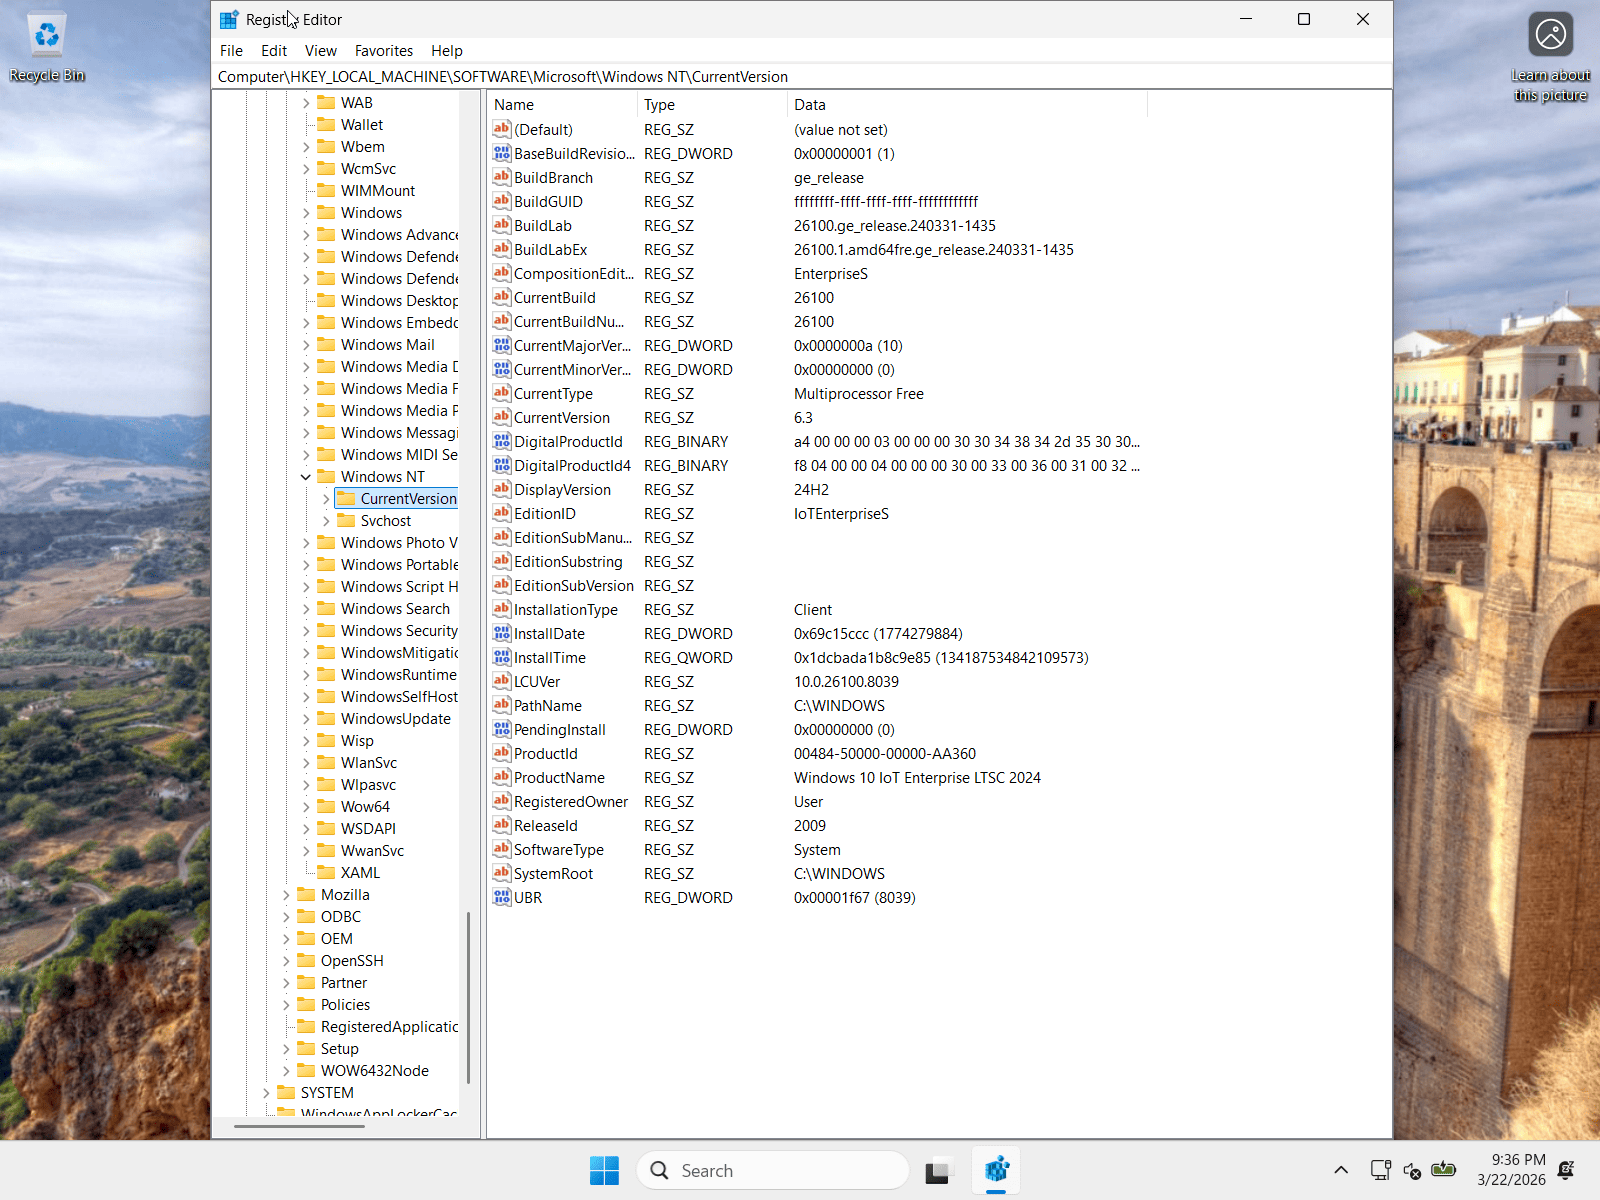
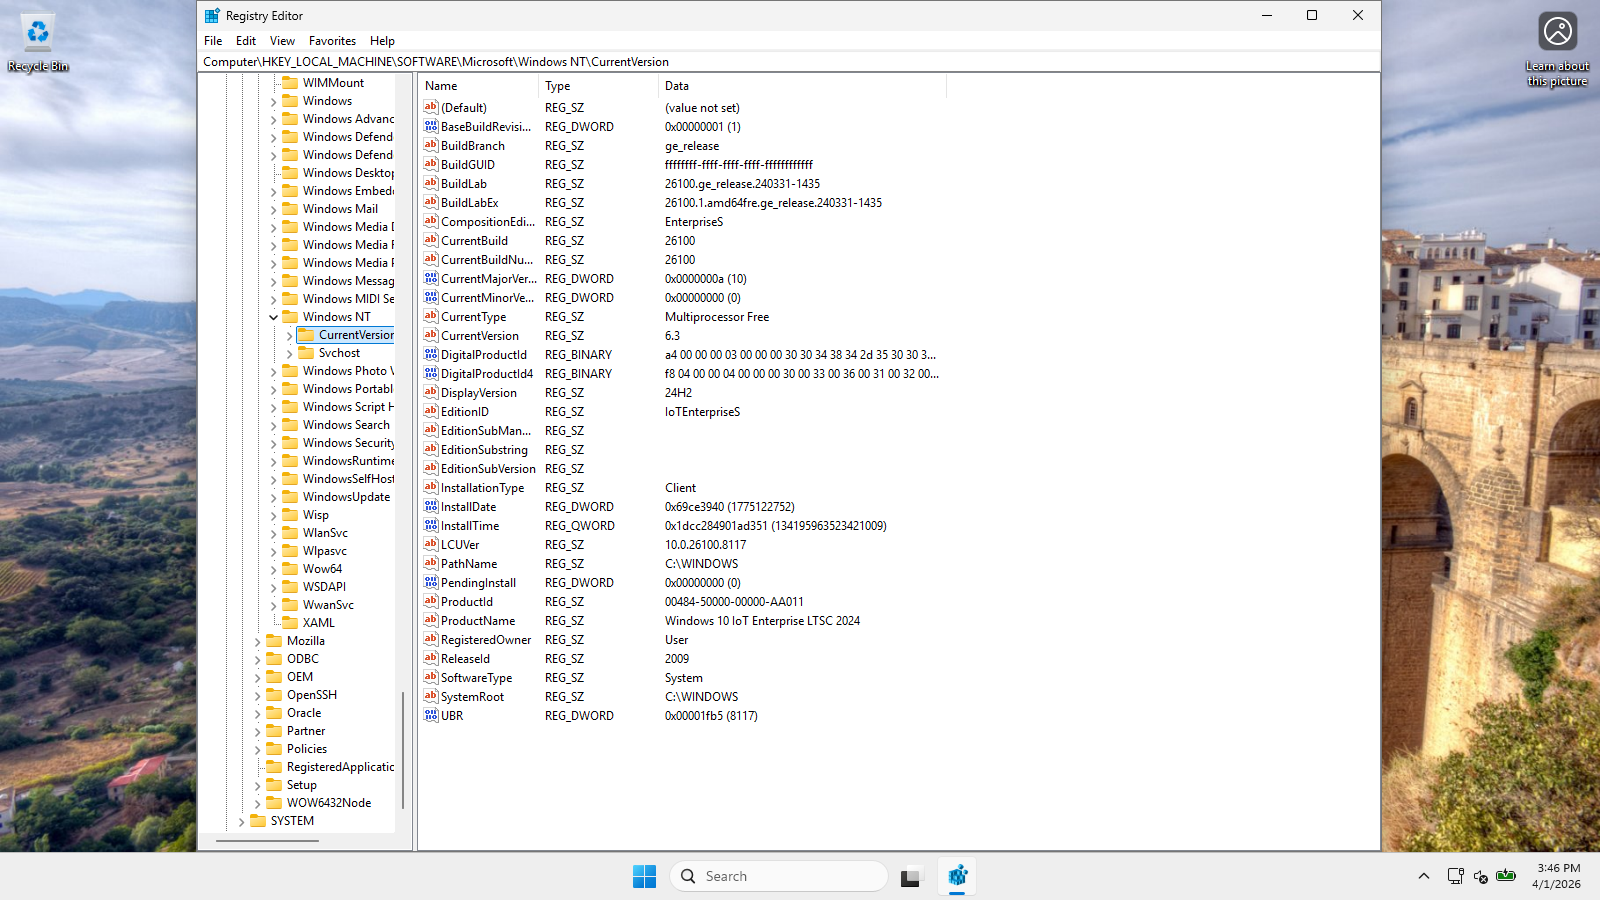
update

Changed region(s): [[0.0, 0.0, 1.0, 0.9956], [0.0, 0.2178, 0.0625, 0.2489], [0.0312, 0.1244, 0.0625, 0.1556]]

diff --git a/windows-11-en/index.html b/windows-11-en/index.html
@@ -53,7 +53,7 @@
             <div class="card-text"><a href="/" class="return-link"><span class="lang-en"><b>Return to Home</b></span><span class="lang-ru"><b>Вернуться на главную</b></span></a></div>
             <div class="card-text"><span class="lang-en">Language: English</span><span class="lang-ru">Язык: Английский</span></div>
             <div class="card-text"><span class="lang-en">Windows 11 IoT Enterprise LTSC (Long-Term Servicing Channel) is a lightweight version of Windows with long-term support, designed for stable performance on embedded devices and specialized systems. It excludes unnecessary apps, reducing system requirements and making it an ideal solution where reliability and minimal interference are critical.</span><span class="lang-ru">Windows 11 IoT Enterprise LTSC (Long-Term Servicing Channel) — это облегченная версия Windows с долгосрочной поддержкой, разработанная для стабильной работы на встраиваемых устройствах и специализированных системах. Она исключает ненужные приложения, снижая системные требования и делая ее идеальным решением там, где критически важны надежность и минимальное вмешательство.</span></div>
-            <div class="updated"><span class="lang-en"><b>TPM, Secure Boot, and OOBE checks are disabled,<br>Updated to 26100.8039 Preview (March 2026) by somov</b></span><span class="lang-ru"><b>Проверки TPM, Secure Boot и OOBE отключены,<br>Обновлено до 26100.8039 Предварительная версия (Март 2026) by somov</b></span></div>
+            <div class="updated"><span class="lang-en"><b>TPM, Secure Boot, and OOBE checks are disabled,<br>Updated to 26100.8117 Out-of-band (March 2026) by somov</b></span><span class="lang-ru"><b>Проверки TPM, Secure Boot и OOBE отключены,<br>Обновлено до 26100.8117 Вне диапазона (Март 2026) by somov</b></span></div>
             <div class="card-text"><span class="lang-en"><b>System Requirements:</b></span><span class="lang-ru"><b>Системные требования:</b></span></div>
             <div class="card-text">
               <ol class="marker-list">
@@ -66,13 +66,13 @@
             </div>
             <div class="card-text"><span class="lang-en"><b>Image checksums:</b></span><span class="lang-ru"><b>Контрольные суммы образа:</b></span></div>
             <div class="card-text">
-              <ol class="marker-list"><li><b>CRC32:</b> 6b2cd9fc</li>
-              <li><b>MD5:</b> 08d81428647d21c82f689e60d194fc3c</li>
-              <li><b>SHA-1:</b> 84d0d03466508e037527249ef8f8c6fbeab6f328</li>
+              <ol class="marker-list"><li><b>CRC32:</b> dcd4b22f</li>
+              <li><b>MD5:</b> 13b49557aedbb67dd264c3b3eef1c1e2</li>
+              <li><b>SHA-1:</b> dff73b08f3ad775431a58bd076b7406aac534ec2</li>
             </ol></div>
             <div class="button-container">
-            <a class="btn-windows" href="https://dl3.somov.org/en-us_windows_11_iot_enterprise_ltsc_2024_x64_26100.8039_by_somov.iso"><span class="lang-en">Download</span><span class="lang-ru">Скачать</span></a>
-            <a class="torrent-link" href="https://dl3.somov.org/en-us_windows_11_iot_enterprise_ltsc_2024_x64_26100.8039_by_somov.iso.torrent"><span class="lang-en">Download by torrent</span><span class="lang-ru">Скачать с помощью torrent</span></a>
+            <a class="btn-windows" href="https://dl3.somov.org/en-us_windows_11_iot_enterprise_ltsc_2024_x64_26100.8117_by_somov.iso"><span class="lang-en">Download</span><span class="lang-ru">Скачать</span></a>
+            <a class="torrent-link" href="https://dl3.somov.org/en-us_windows_11_iot_enterprise_ltsc_2024_x64_26100.8117_by_somov.iso.torrent"><span class="lang-en">Download by torrent</span><span class="lang-ru">Скачать с помощью torrent</span></a>
             </div>
   <div class="full-width-section">
     <div class="gallery">

diff --git a/windows-11-ru/index.html b/windows-11-ru/index.html
@@ -53,7 +53,7 @@
             <div class="card-text"><a href="/" class="return-link"><span class="lang-en"><b>Return to Home</b></span><span class="lang-ru"><b>На главную</b></span></a></div>
             <div class="card-text"><span class="lang-en">Language: Russian</span><span class="lang-ru">Язык: Русский</span></div>
             <div class="card-text"><span class="lang-en">Windows 11 IoT Enterprise LTSC (Long-Term Servicing Channel) is a lightweight version of Windows with long-term support, designed for stable performance on embedded devices and specialized systems. It excludes unnecessary apps, reducing system requirements and making it an ideal solution where reliability and minimal interference are critical.</span><span class="lang-ru">Windows 11 IoT Enterprise LTSC (Long-Term Servicing Channel) — это облегчённая версия Windows с долгосрочной поддержкой, разработанная для стабильной работы на встраиваемых устройствах и специализированных системах. Она лишена лишних приложений, что снижает системные требования и делает её идеальным решением, где важны надёжность и минимальное вмешательство.</span></div>
-            <div class="updated"><span class="lang-en"><b>TPM, Secure Boot, and OOBE checks are disabled,<br>Updated to 26100.8039 Preview (March 2026) by somov</b></span><span class="lang-ru"><b>Проверки TPM, Secure Boot и OOBE отключены,<br>Обновлено до 26100.8039 Предварительная версия (Март 2026) by somov</b></span></div>
+            <div class="updated"><span class="lang-en"><b>TPM, Secure Boot, and OOBE checks are disabled,<br>Updated to 26100.8117 Out-of-band (March 2026) by somov</b></span><span class="lang-ru"><b>Проверки TPM, Secure Boot и OOBE отключены,<br>Обновлено до 26100.8117 Вне диапазона (Март 2026) by somov</b></span></div>
             <div class="card-text"><span class="lang-en"><b>System Requirements:</b></span><span class="lang-ru"><b>Системные требования:</b></span></div>
             <div class="card-text">
               <ol class="marker-list">
@@ -66,13 +66,13 @@
             </div>
             <div class="card-text"><span class="lang-en"><b>Image checksums:</b></span><span class="lang-ru"><b>Контрольные суммы:</b></span></div>
             <div class="card-text">
-              <ol class="marker-list"><li><b>CRC32:</b> af050dd7</li>
-              <li><b>MD5:</b> f4b55223c926c098f49e27e99fbc5f6a</li>
-              <li><b>SHA-1:</b> 033c09a71e03d0df474901dcf855a450bc2d6e32</li>
+              <ol class="marker-list"><li><b>CRC32:</b> 4c83e8ba</li>
+              <li><b>MD5:</b> a2dfa4bef147178055615f9ae9174140</li>
+              <li><b>SHA-1:</b> f31013625a02faf80b040d84f1423f0bd6d6990d</li>
             </ol></div>
             <div class="button-container">
-            <a class="btn-windows" href="https://dl3.somov.org/ru-ru_windows_11_iot_enterprise_ltsc_2024_x64_26100.8039_by_somov.iso"><span class="lang-en">Download</span><span class="lang-ru">Скачать</span></a>
-            <a class="torrent-link" href="https://dl3.somov.org/ru-ru_windows_11_iot_enterprise_ltsc_2024_x64_26100.8039_by_somov.iso.torrent"><span class="lang-en">Download by torrent</span><span class="lang-ru">Скачать с помощью torrent</span></a>
+            <a class="btn-windows" href="https://dl3.somov.org/ru-ru_windows_11_iot_enterprise_ltsc_2024_x64_26100.8117_by_somov.iso"><span class="lang-en">Download</span><span class="lang-ru">Скачать</span></a>
+            <a class="torrent-link" href="https://dl3.somov.org/ru-ru_windows_11_iot_enterprise_ltsc_2024_x64_26100.8117_by_somov.iso.torrent"><span class="lang-en">Download by torrent</span><span class="lang-ru">Скачать с помощью torrent</span></a>
             </div>
   <div class="full-width-section">
     <div class="gallery">

diff --git a/index.html b/index.html
@@ -66,7 +66,7 @@
             </a>
             <div class="card-details">
               <span class="lang-en">Language: English<br></span><span class="lang-ru">Язык: Английский<br></span>
-              <span class="lang-en">Update: 26100.8039 Preview (March 2026)<br></span><span class="lang-ru">Обновление: 26100.8039 Предварительная версия (Март 2026)<br></span>
+              <span class="lang-en">Update: 26100.8117 Out-of-band (March 2026)<br></span><span class="lang-ru">Обновление: 26100.8117 Вне диапазона (Март 2026)<br></span>
               <span class="lang-en">Edition: IoT Enterprise LTSC<br></span><span class="lang-ru">Издание: IoT Enterprise LTSC<br></span>
               <span class="lang-en">Version: 24H2<br></span><span class="lang-ru">Версия: 24H2<br></span>
               <span class="lang-en">Author: somov<br></span><span class="lang-ru">Автор: somov<br></span>
@@ -79,8 +79,8 @@
         </div>
         <div class="card-right">
           <div class="card-actions">
-            <a class="btn" href="https://dl3.somov.org/en-us_windows_11_iot_enterprise_ltsc_2024_x64_26100.8039_by_somov.iso"><span class="lang-en">Download</span><span class="lang-ru">Скачать</span></a>
-            <a class="torrent-link" href="https://dl3.somov.org/en-us_windows_11_iot_enterprise_ltsc_2024_x64_26100.8039_by_somov.iso.torrent"><span class="lang-en">Download by torrent</span><span class="lang-ru">Скачать с помощью torrent</span></a>
+            <a class="btn" href="https://dl3.somov.org/en-us_windows_11_iot_enterprise_ltsc_2024_x64_26100.8117_by_somov.iso"><span class="lang-en">Download</span><span class="lang-ru">Скачать</span></a>
+            <a class="torrent-link" href="https://dl3.somov.org/en-us_windows_11_iot_enterprise_ltsc_2024_x64_26100.8117_by_somov.iso.torrent"><span class="lang-en">Download by torrent</span><span class="lang-ru">Скачать с помощью torrent</span></a>
           </div>
         </div>
       </section>
@@ -133,7 +133,7 @@
             </a>
             <div class="card-details">
               <span class="lang-en">Language: Russian<br></span><span class="lang-ru">Язык: Русский<br></span>
-              <span class="lang-en">Update: 26100.8039 Preview (March 2026)<br></span><span class="lang-ru">Обновление: 26100.8039 Предварительная Версия (Март 2026)<br></span>
+              <span class="lang-en">Update: 26100.8117 Out-of-band (March 2026)<br></span><span class="lang-ru">Обновление: 26100.8117 Вне диапазона (Март 2026)<br></span>
               <span class="lang-en">Edition: IoT Enterprise LTSC<br></span><span class="lang-ru">Издание: IoT Enterprise LTSC<br></span>
               <span class="lang-en">Version: 24H2<br></span><span class="lang-ru">Версия: 24H2<br></span>
               <span class="lang-en">Author: somov<br></span><span class="lang-ru">Автор: somov<br></span>
@@ -146,8 +146,8 @@
         </div>
         <div class="card-right">
           <div class="card-actions">
-            <a class="btn" href="https://dl3.somov.org/ru-ru_windows_11_iot_enterprise_ltsc_2024_x64_26100.8039_by_somov.iso"><span class="lang-en">Download</span><span class="lang-ru">Скачать</span></a>
-            <a class="torrent-link" href="https://dl3.somov.org/ru-ru_windows_11_iot_enterprise_ltsc_2024_x64_26100.8039_by_somov.iso.torrent"><span class="lang-en">Download by torrent</span><span class="lang-ru">Скачать с помощью torrent</span></a>
+            <a class="btn" href="https://dl3.somov.org/ru-ru_windows_11_iot_enterprise_ltsc_2024_x64_26100.8117_by_somov.iso"><span class="lang-en">Download</span><span class="lang-ru">Скачать</span></a>
+            <a class="torrent-link" href="https://dl3.somov.org/ru-ru_windows_11_iot_enterprise_ltsc_2024_x64_26100.8117_by_somov.iso.torrent"><span class="lang-en">Download by torrent</span><span class="lang-ru">Скачать с помощью torrent</span></a>
           </div>
         </div>
       </section>
